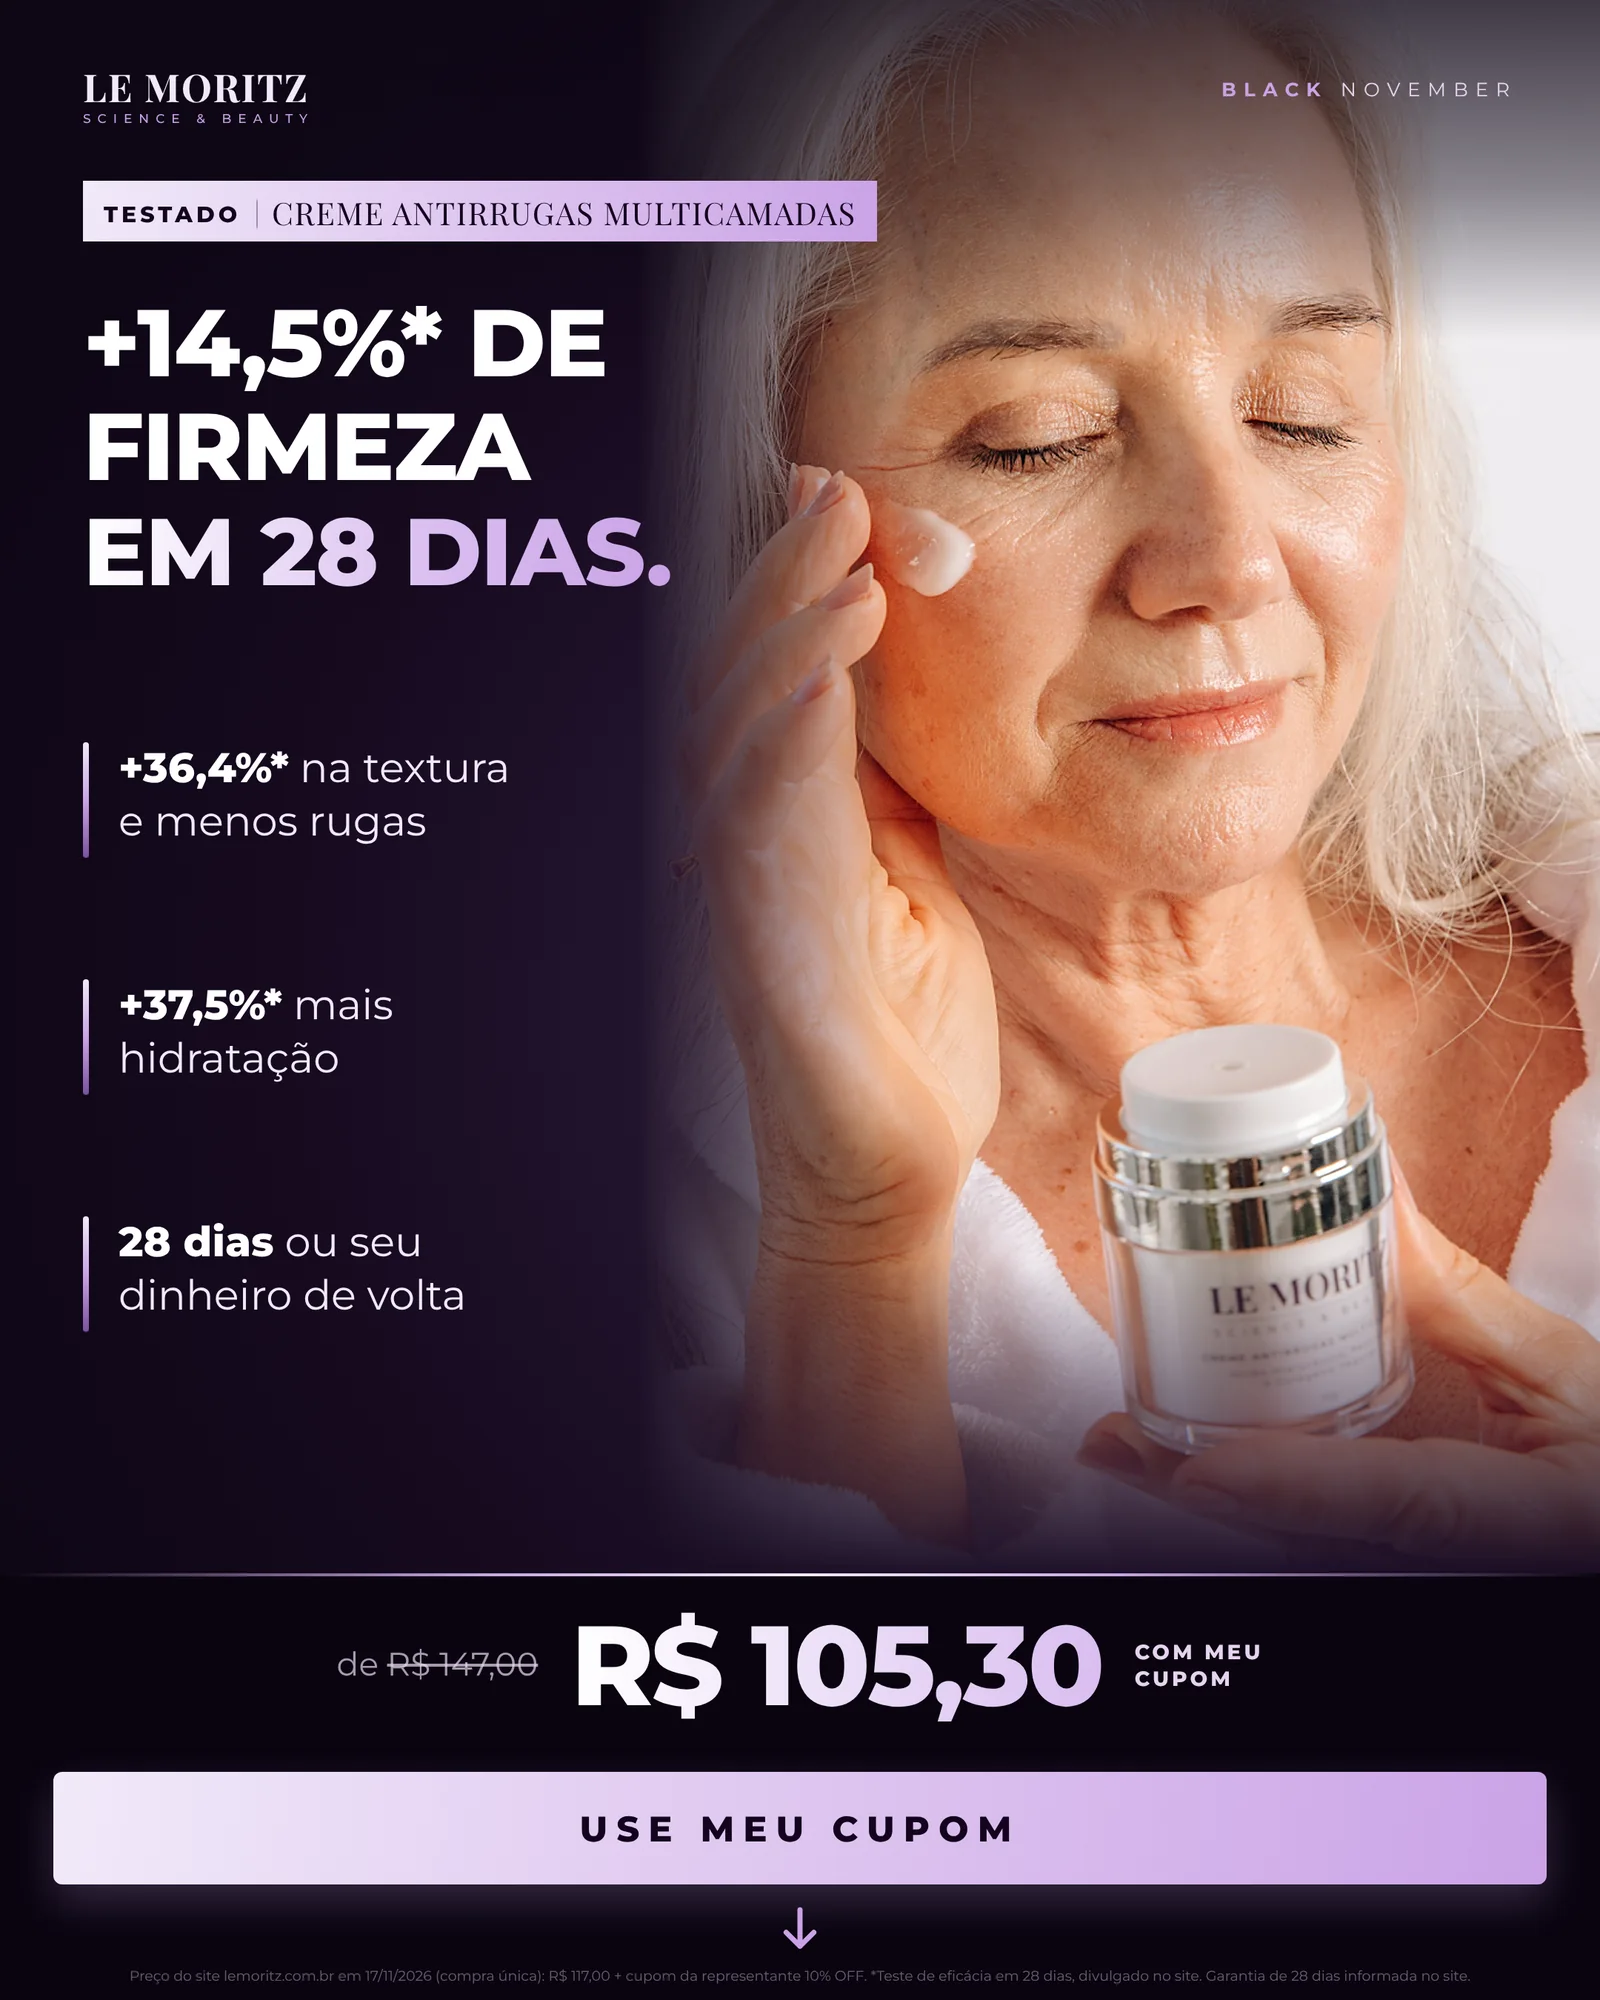
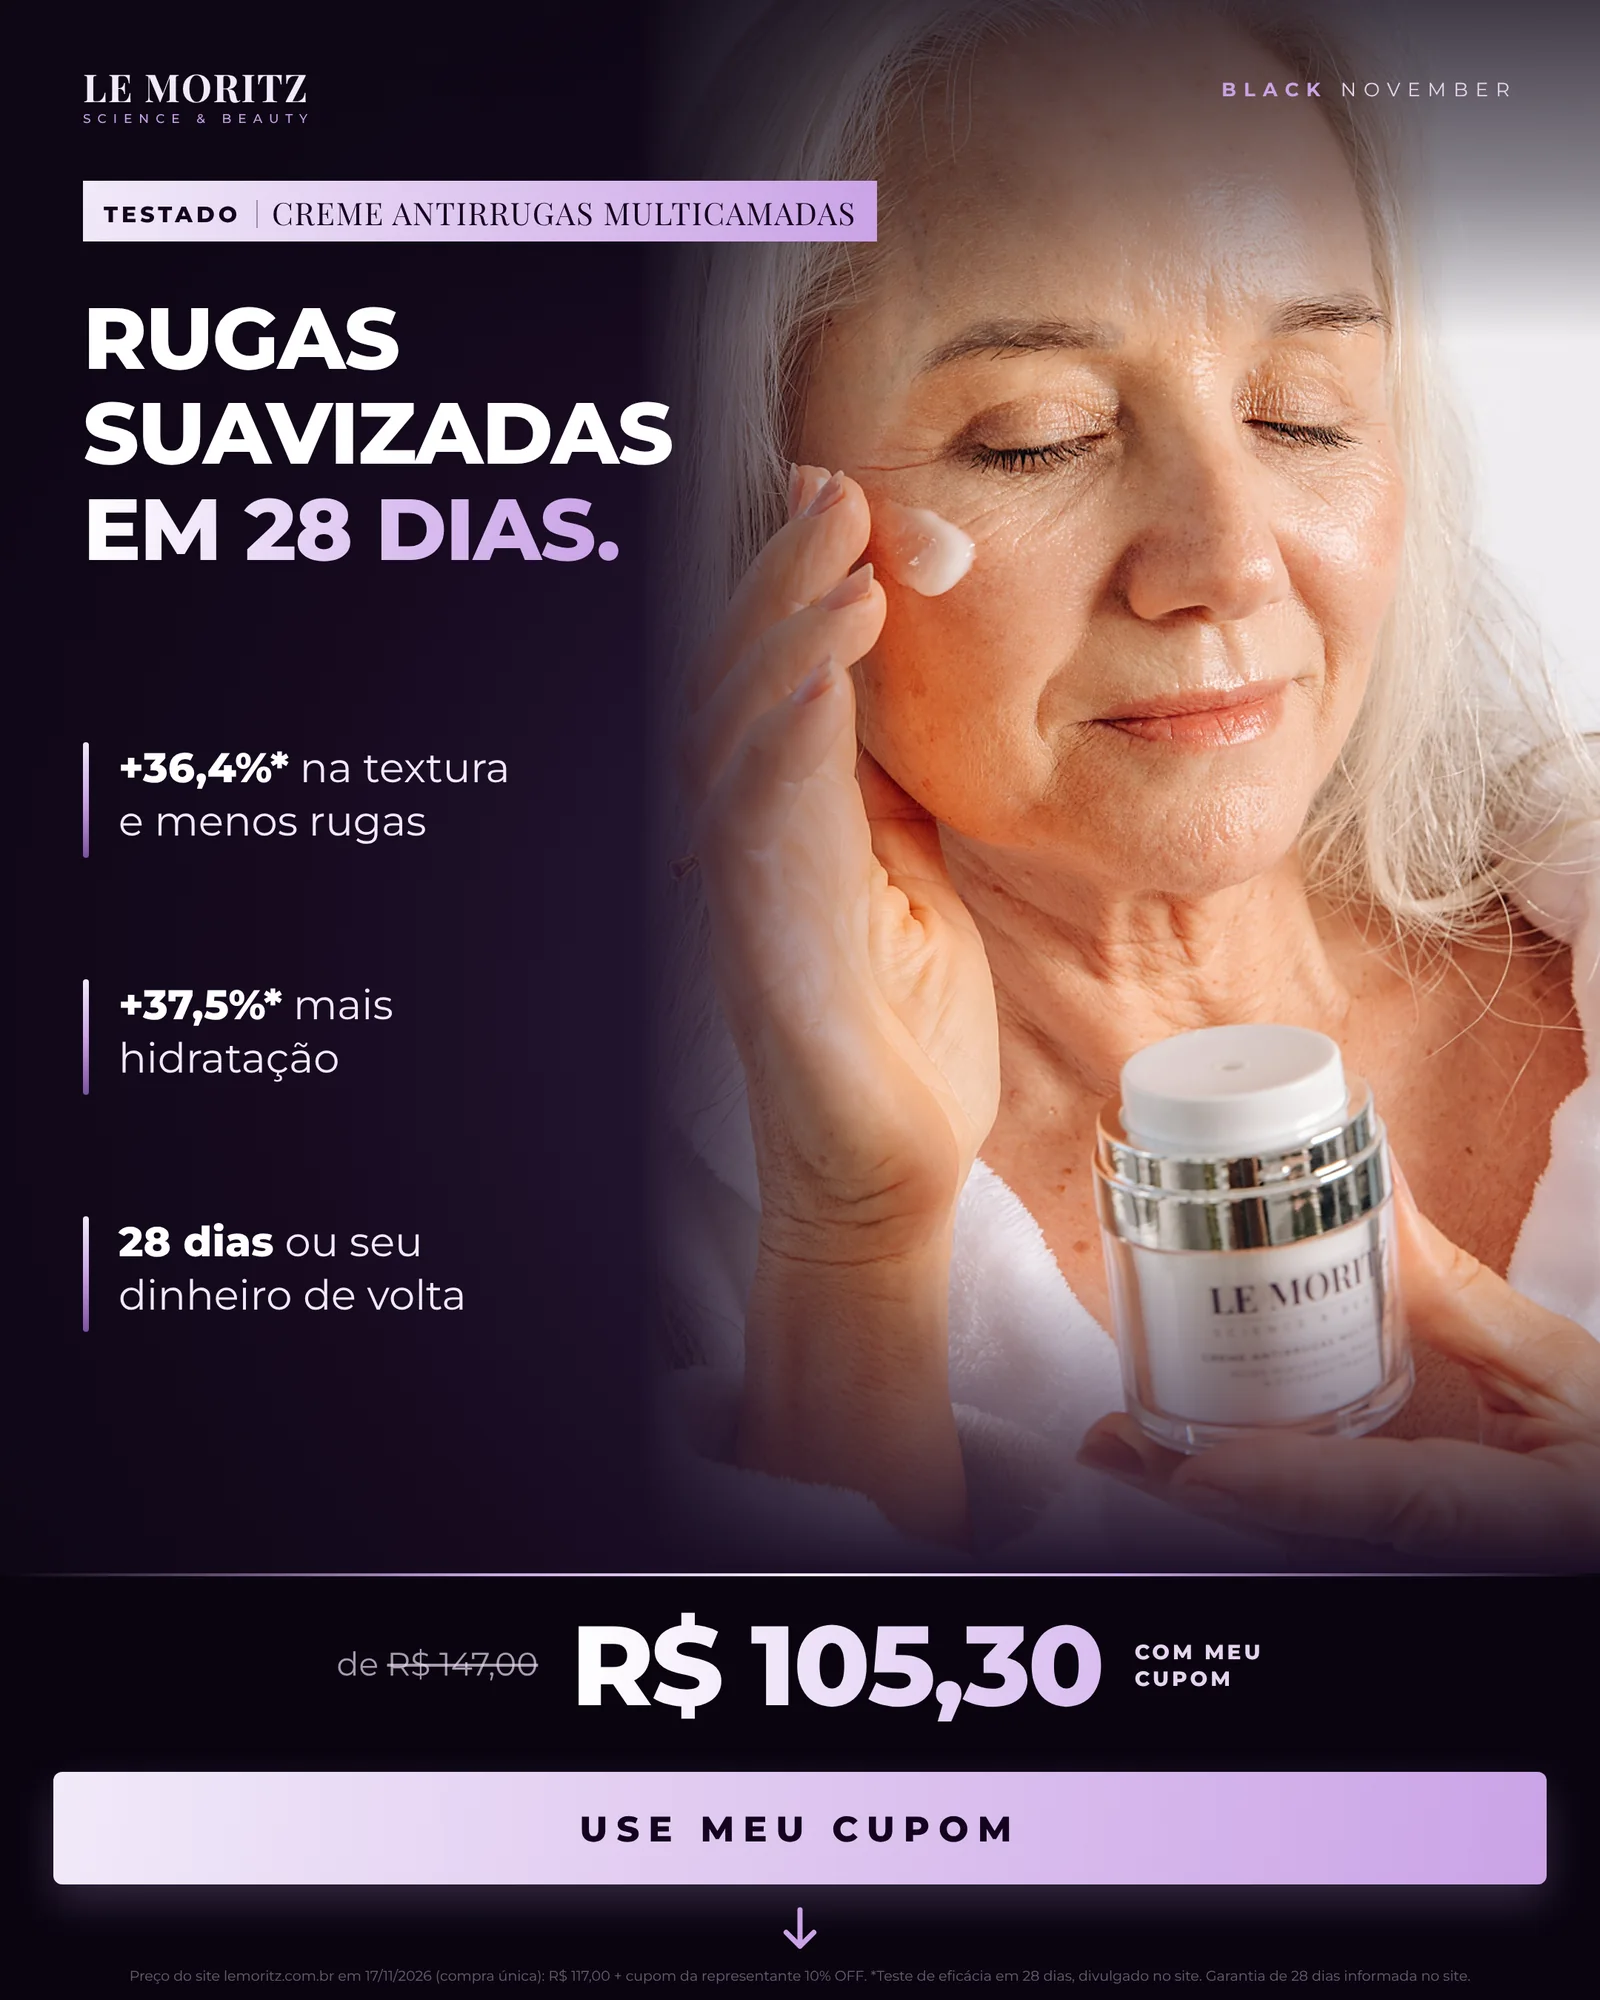
Creme Multicamadas com modelo: manchete "Rugas suavizadas em 28 dias"
Claude-Session: https://claude.ai/code/session_01TW8fczpHEyq63AUCD6efa5

Changed region(s): [[0.0312, 0.155, 0.4375, 0.31]]

diff --git a/index.html b/index.html
@@ -1035,12 +1035,12 @@ details .corpo{padding:0 0 16px}
       </article>
       <article class="peca vertical" data-cat="novos">
         <div class="th" onclick="abrirLupa(this)">
-          <img src="imagens/black_mod_creme.webp" alt="Creme Antirrugas Multicamadas &#8211; +14,5% de firmeza em 28 dias." loading="lazy">
+          <img src="imagens/black_mod_creme.webp" alt="Creme Antirrugas Multicamadas &#8211; Rugas suavizadas em 28 dias." loading="lazy">
           <span class="tipo">Imagem</span>
         </div>
         <div class="c">
           <b>Creme Antirrugas Multicamadas</b>
-          <span class="d">+14,5% de firmeza em 28 dias. De R$147 por R$105,30 com cupom.</span>
+          <span class="d">Rugas suavizadas em 28 dias. De R$147 por R$105,30 com cupom.</span>
           <a class="cta" href="imagens/black_mod_creme.webp" download>Baixar a imagem</a>
           <button class="cta vazio tx-bt" onclick="abrirTextos('creme_multicamadas')">Textos prontos</button>
         </div>
